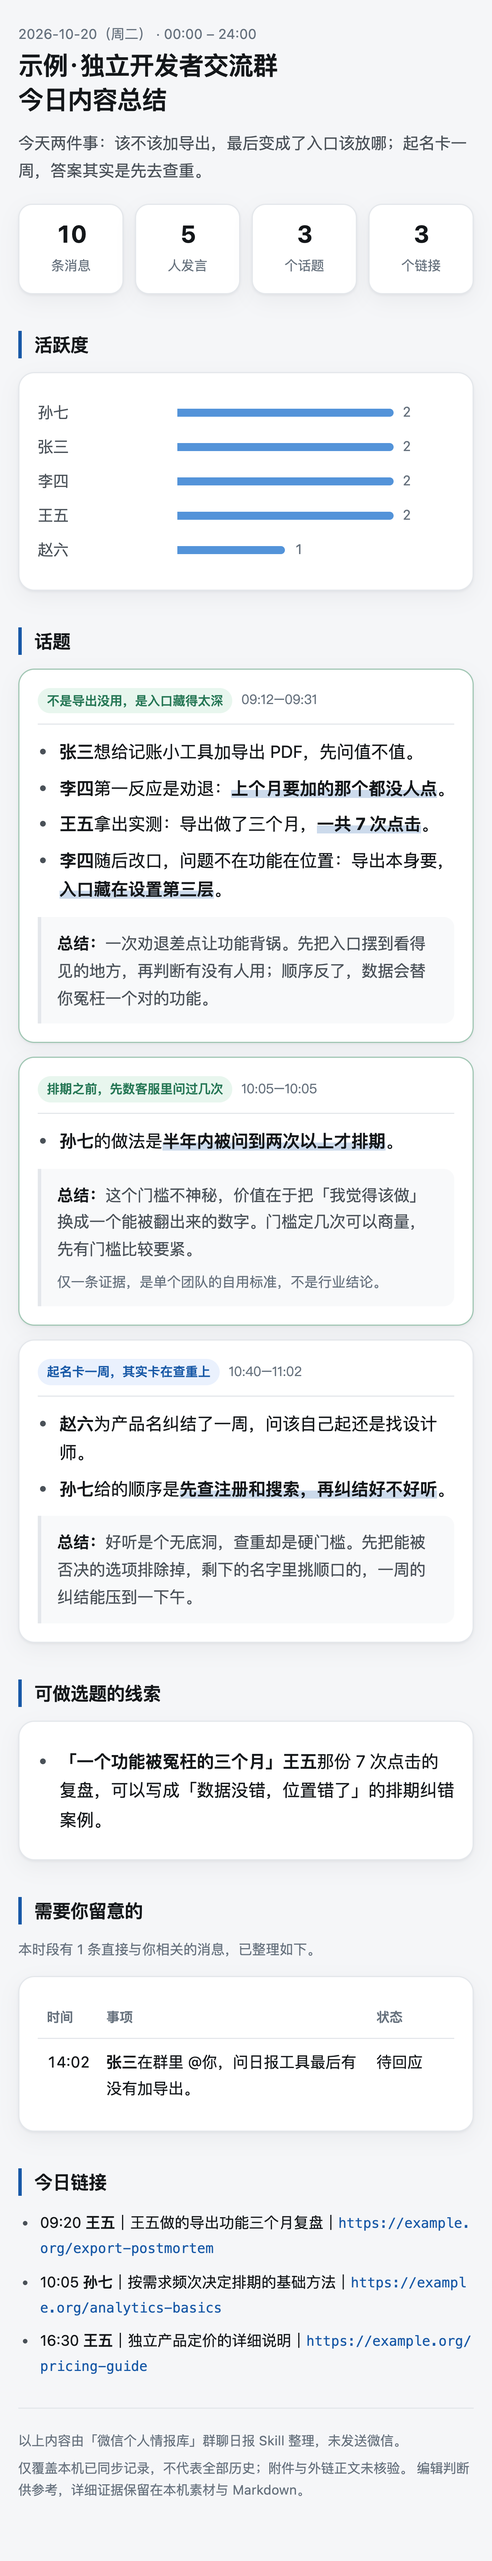
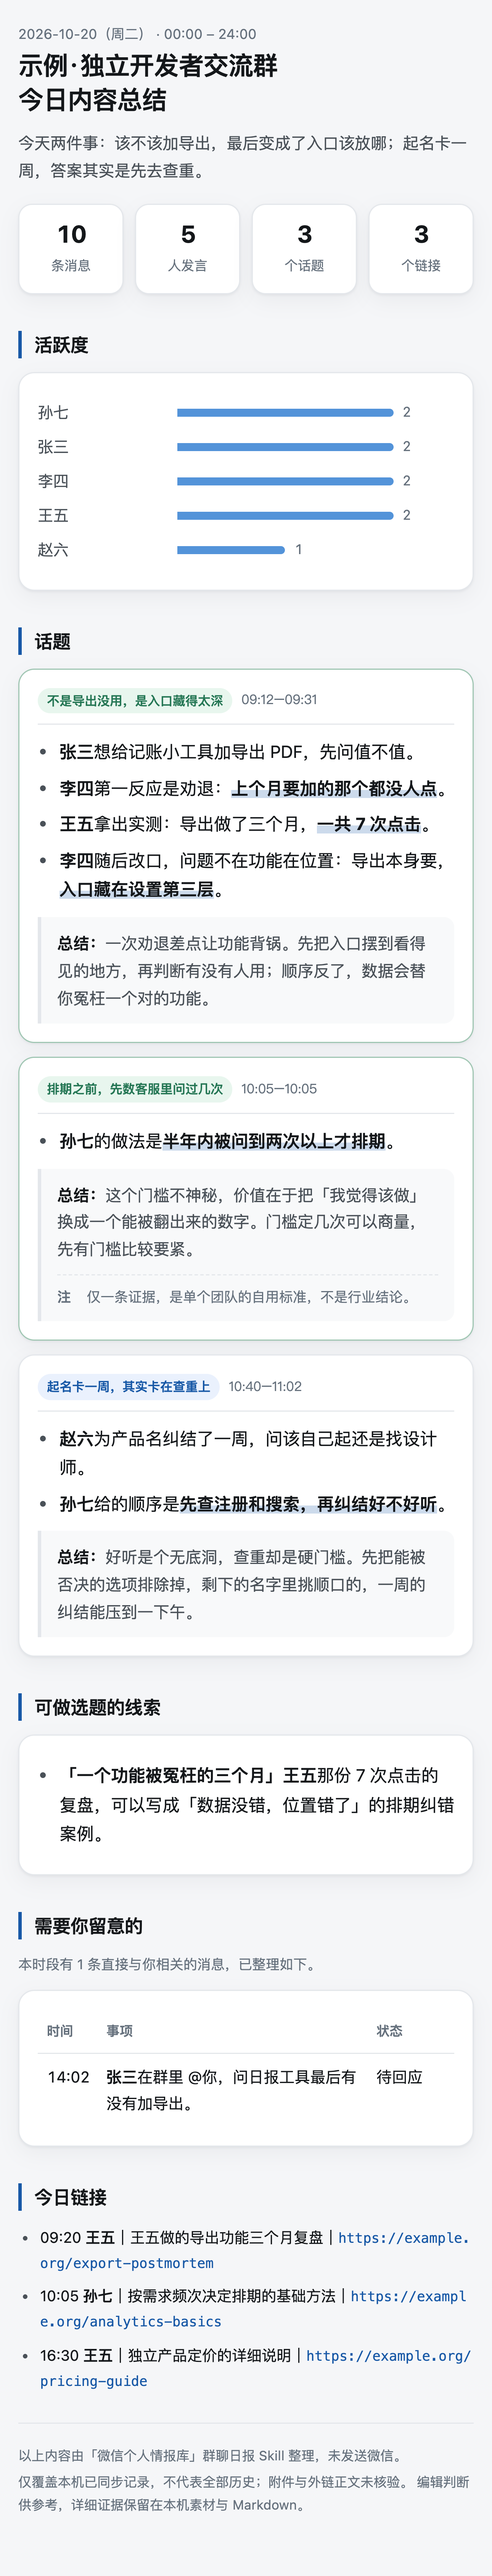
style: give topic boundary notes their own divider
A boundary note (证据有限/适用条件) used to run straight into the
"总结" blockquote, so it read as part of the judgement. Give it a dashed
rule and an explicit 注 marker so the caveat is visually separate from
the takeaway.

Regenerate examples/preview.* to match.

diff --git a/examples/preview.html b/examples/preview.html
@@ -41,7 +41,7 @@ a{color:var(--brand);text-decoration:none;word-break:break-all}a:focus-visible{o
 .time{font-size:11.5px;color:var(--ink3);font-weight:400;font-variant-numeric:tabular-nums;white-space:nowrap}
 ul{padding-left:19px;margin:8px 0}li{margin:6px 0}li::marker{color:var(--ink2)}.hl{font-family:inherit;font-weight:700;color:var(--ink);background:linear-gradient(transparent 62%,color-mix(in srgb,var(--brand) 22%,transparent) 0)}
 blockquote{margin:11px 0 0;padding:11px 14px;border-left:3px solid var(--line);background:var(--quote);border-radius:0 9px 9px 0;color:var(--ink2);font-size:14px}blockquote strong{color:var(--ink)}
-.boundary{display:block;color:var(--ink3);font-size:12px;margin-top:7px}
+.boundary{display:block;color:var(--ink3);font-size:12px;line-height:1.75;margin-top:10px;padding-top:8px;border-top:1px dashed var(--line)}.boundary::before{content:"注　";color:var(--ink3);font-weight:600;letter-spacing:.08em}
 .rank{margin:0;padding:0;list-style:none}.rank li{display:grid;grid-template-columns:112px minmax(0,1fr);align-items:center;gap:10px;margin:7px 0;font-size:13.5px}
 .rank .name{overflow:hidden;text-overflow:ellipsis;white-space:nowrap;color:var(--ink2)}.bar-area{display:flex;align-items:center;gap:8px;min-width:0}.bar{height:7px;border-radius:0 4px 4px 0;background:var(--bar);opacity:.8;flex:none;min-width:2px}.count{color:var(--ink3);font-size:12px;white-space:nowrap;font-variant-numeric:tabular-nums}
 .attention-wrap{overflow-x:auto}table{width:100%;table-layout:fixed;border-collapse:collapse;font-size:13.5px}th,td{text-align:left;padding:9px 8px;border-bottom:1px solid var(--line);vertical-align:top;overflow-wrap:anywhere}

diff --git a/scripts/report_view.py b/scripts/report_view.py
@@ -100,7 +100,7 @@ a{color:var(--brand);text-decoration:none;word-break:break-all}a:focus-visible{o
 .time{font-size:11.5px;color:var(--ink3);font-weight:400;font-variant-numeric:tabular-nums;white-space:nowrap}
 ul{padding-left:19px;margin:8px 0}li{margin:6px 0}li::marker{color:var(--ink2)}.hl{font-family:inherit;font-weight:700;color:var(--ink);background:linear-gradient(transparent 62%,color-mix(in srgb,var(--brand) 22%,transparent) 0)}
 blockquote{margin:11px 0 0;padding:11px 14px;border-left:3px solid var(--line);background:var(--quote);border-radius:0 9px 9px 0;color:var(--ink2);font-size:14px}blockquote strong{color:var(--ink)}
-.boundary{display:block;color:var(--ink3);font-size:12px;margin-top:7px}
+.boundary{display:block;color:var(--ink3);font-size:12px;line-height:1.75;margin-top:10px;padding-top:8px;border-top:1px dashed var(--line)}.boundary::before{content:"注　";color:var(--ink3);font-weight:600;letter-spacing:.08em}
 .rank{margin:0;padding:0;list-style:none}.rank li{display:grid;grid-template-columns:112px minmax(0,1fr);align-items:center;gap:10px;margin:7px 0;font-size:13.5px}
 .rank .name{overflow:hidden;text-overflow:ellipsis;white-space:nowrap;color:var(--ink2)}.bar-area{display:flex;align-items:center;gap:8px;min-width:0}.bar{height:7px;border-radius:0 4px 4px 0;background:var(--bar);opacity:.8;flex:none;min-width:2px}.count{color:var(--ink3);font-size:12px;white-space:nowrap;font-variant-numeric:tabular-nums}
 .attention-wrap{overflow-x:auto}table{width:100%;table-layout:fixed;border-collapse:collapse;font-size:13.5px}th,td{text-align:left;padding:9px 8px;border-bottom:1px solid var(--line);vertical-align:top;overflow-wrap:anywhere}
